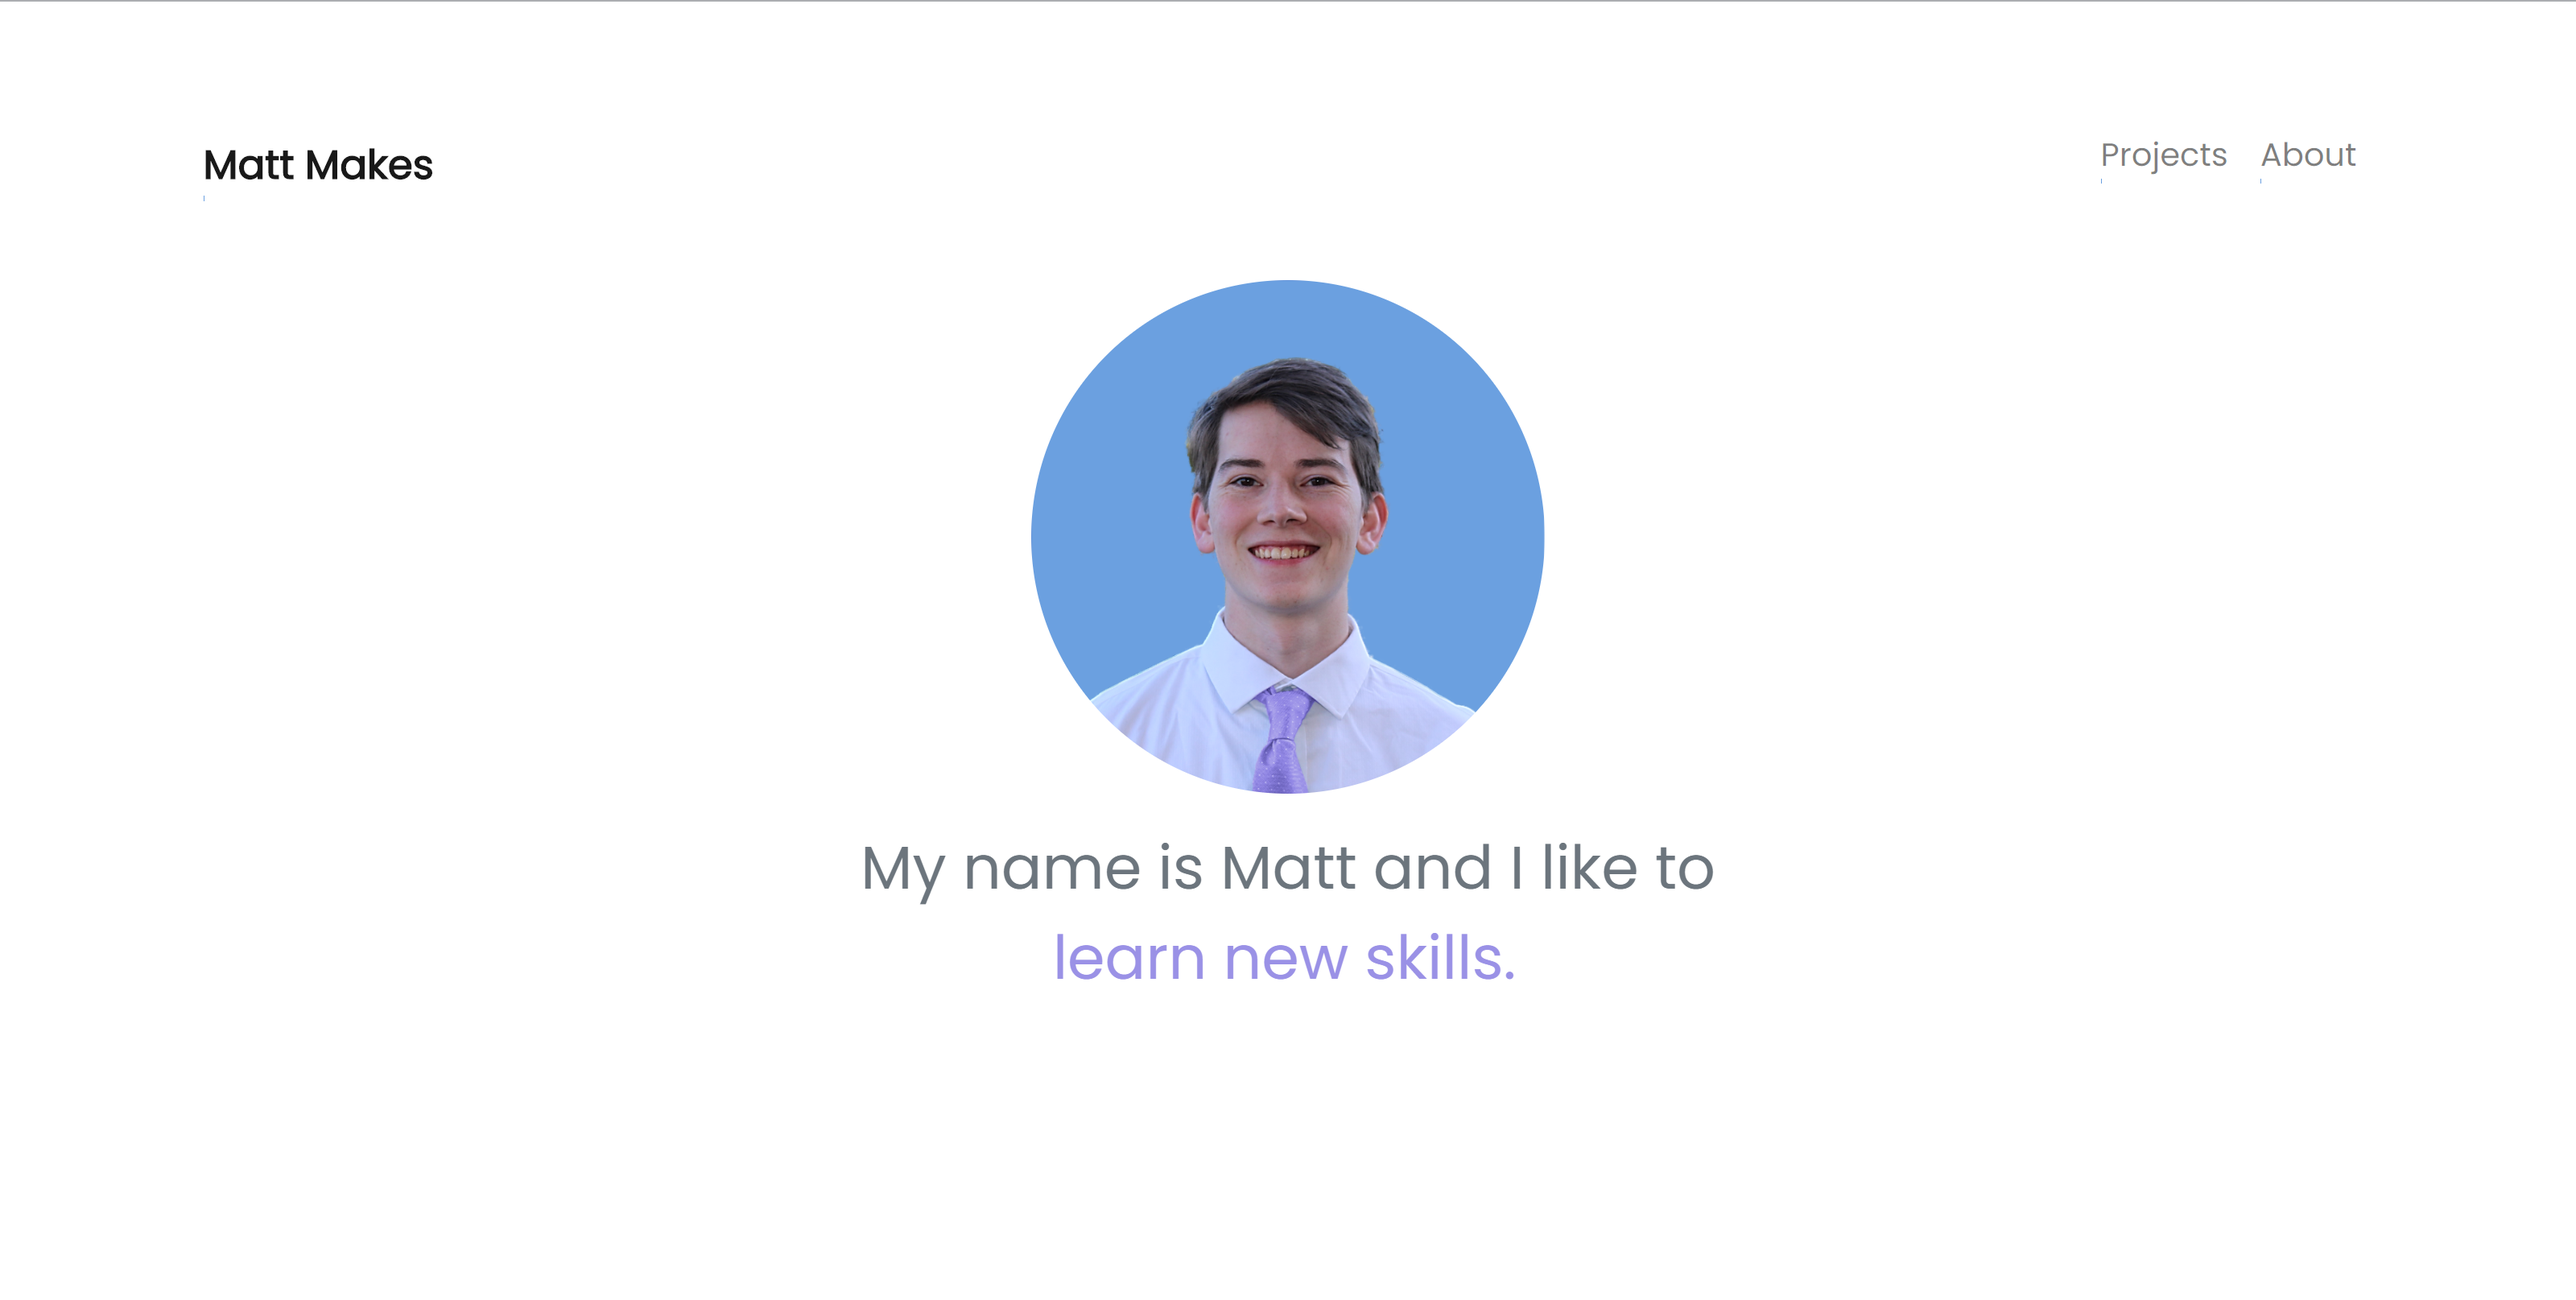
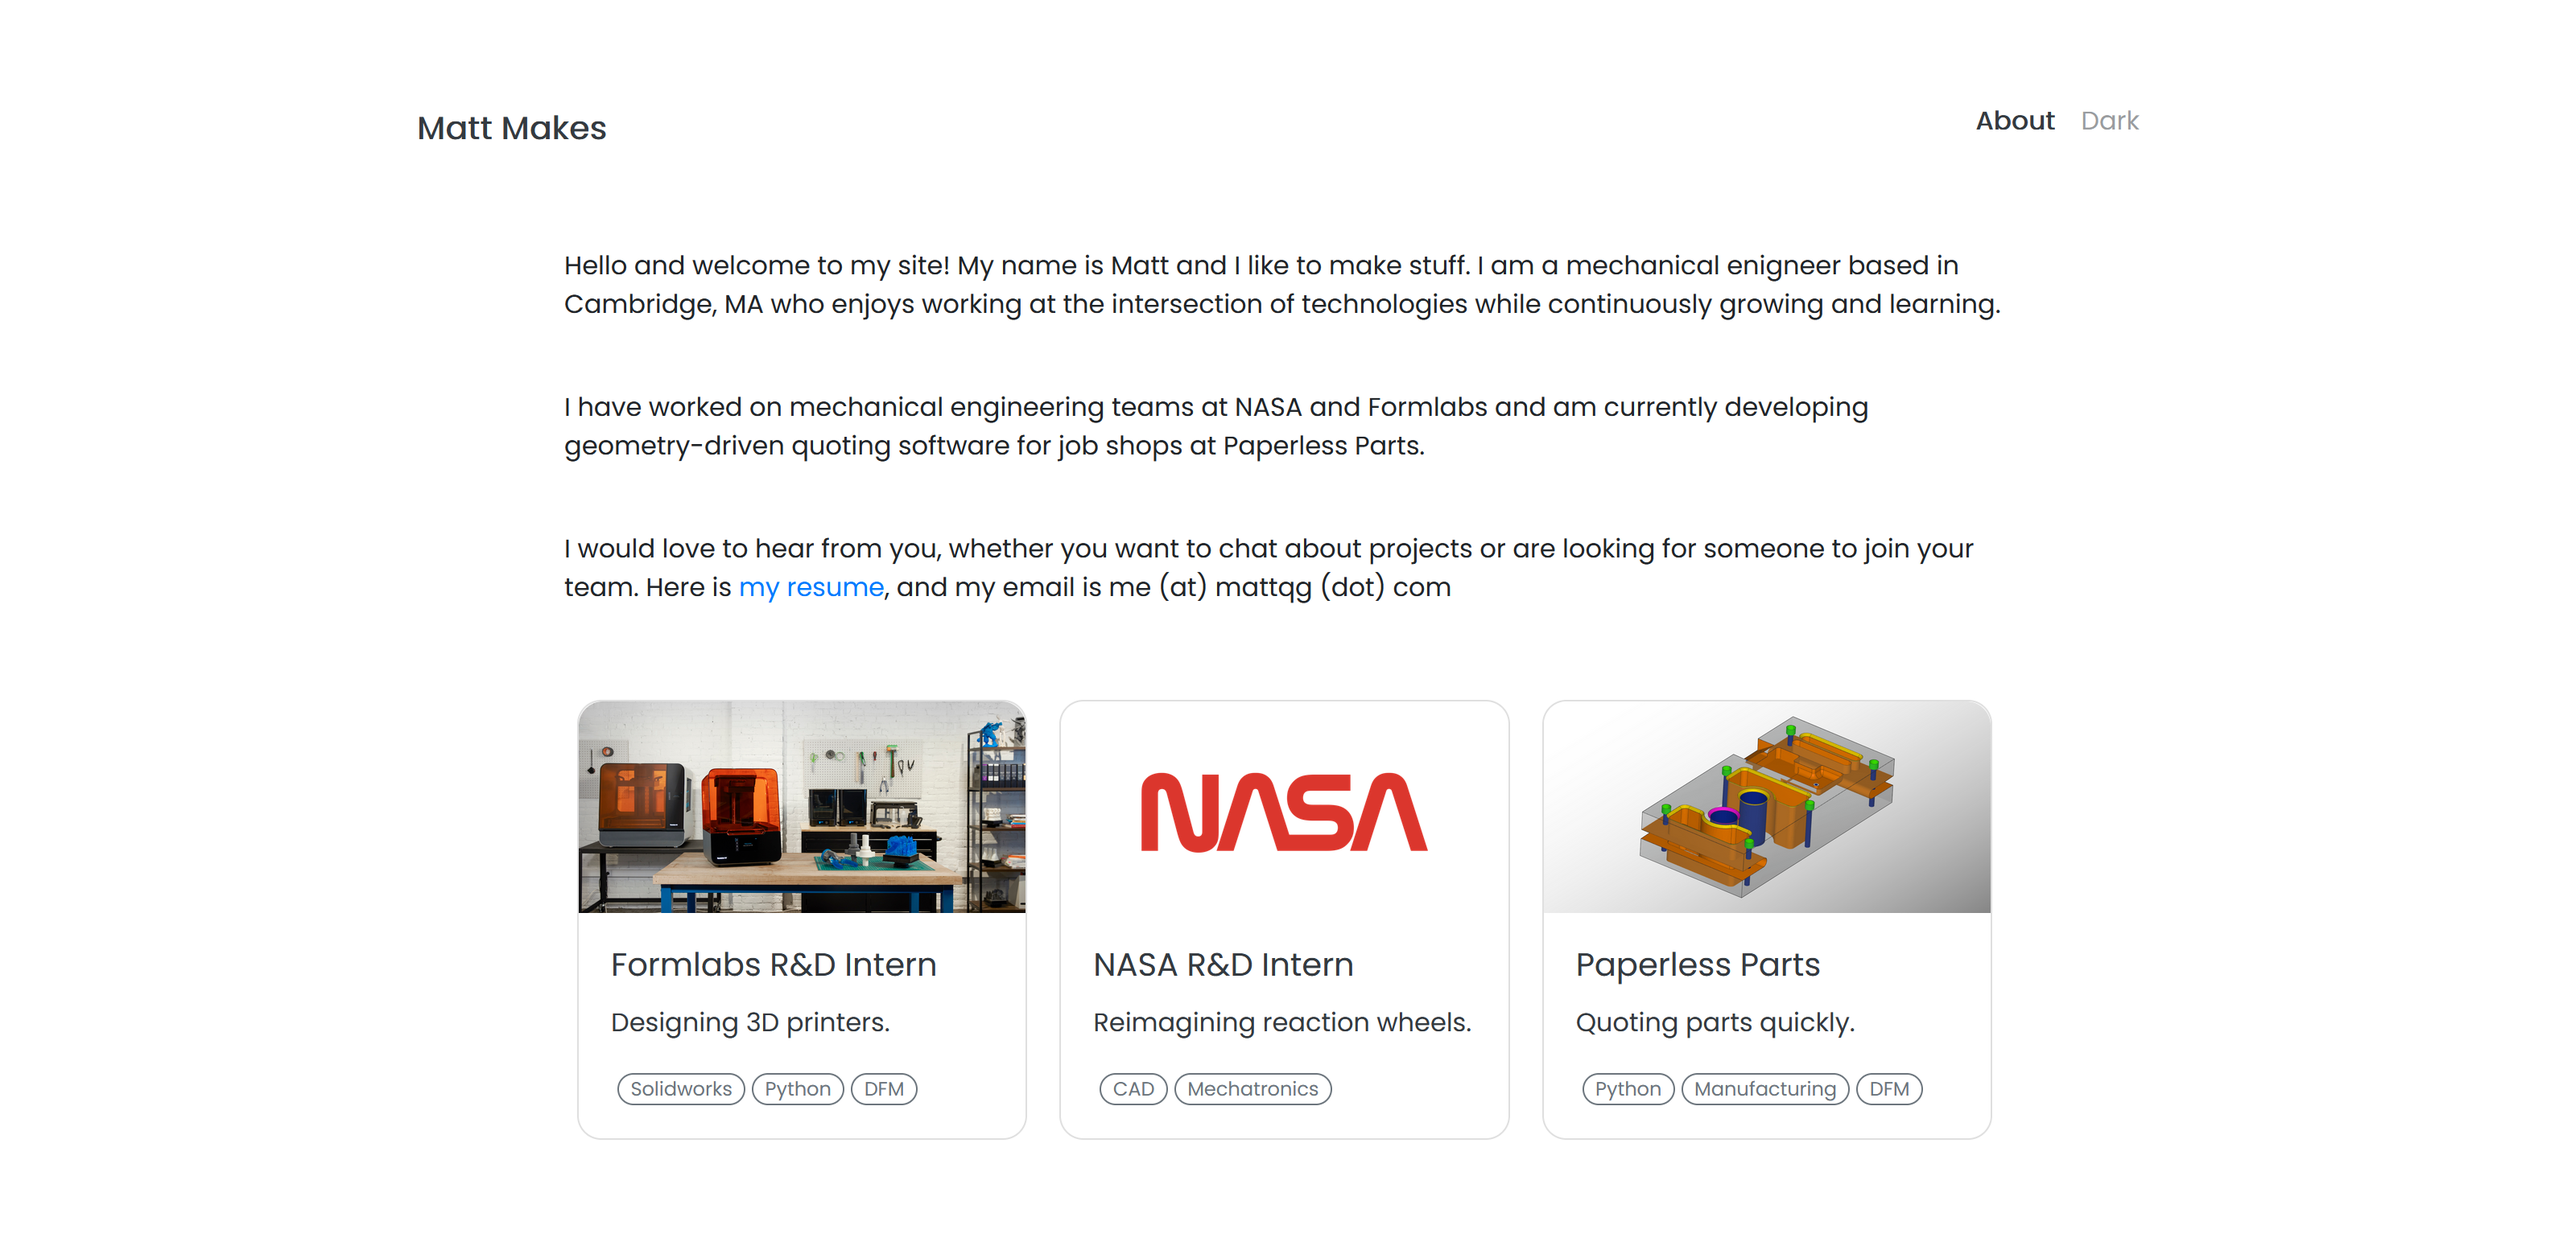
added paperless section

diff --git a/_about/paperless parts.md b/_about/paperless parts.md
@@ -1,19 +1,20 @@
 ---
 name: Paperless Parts
 tools: [Python, Manufacturing, DFM]
-image: "/assets/images/NASA/nasa.png"
+image: "/assets/images/Paperless/gradientpart.png"
 description: Quoting parts quickly. 
 sequence: 3
 ---
 
-#### <b>NASA R&D Intern<b>
-<p style="font-size:15px; padding: 0 0 1em 0;">June, 2020</p>
+#### <b>Paperless Parts<b>
+<p style="font-size:15px; padding: 0 0 1em 0;">October, 2021</p>
 
-Many satelites (Kepler, FUSE, Dawn, Hayabusa) have suffered failure of reaction wheels due to bearing failures. The Correlated Electromagnetic Levitation Actuator (CELA) replaces conventional reaction wheels with an electromagnetically levitating actuator.
+ Paperless Parts is a software company working to redefine the manufacturing space. My role involves coding geometrically-driven quoting software for job shops. I utilize python to implement quoting logic for quickly and accurately driving the price of manufactured parts. 
+ 
+ <br>
+![milling feature detection](\assets\images\Paperless\milling-feature-detection.png)
+<br>
 
+ I have worked with shops to automate quoting for sheet metal fabrication, CNC milling and turning, and additive manufacturing. Throgh the work, I have gotten a deeper understanding of what drives the cost of a part and how machine shops of all sizes operate.
 
-I worked on advancing the current prototype for CELA, including determining and documenting design goals, conducting research, and designing parts. 
-
-For the manufacturing of the actuator, I designed a custom end effector for a 6 DOF robotic arm capable of selectively magnetizing a plate. This manufacturing process creates custom correlated magnets, allowing for discrete magnetic regions controllable by external electromagnets. 
-
-I worked across subteams to assist with project management and documentation tasks, including an overall project report and video for grant funding submission.
+ <br>
